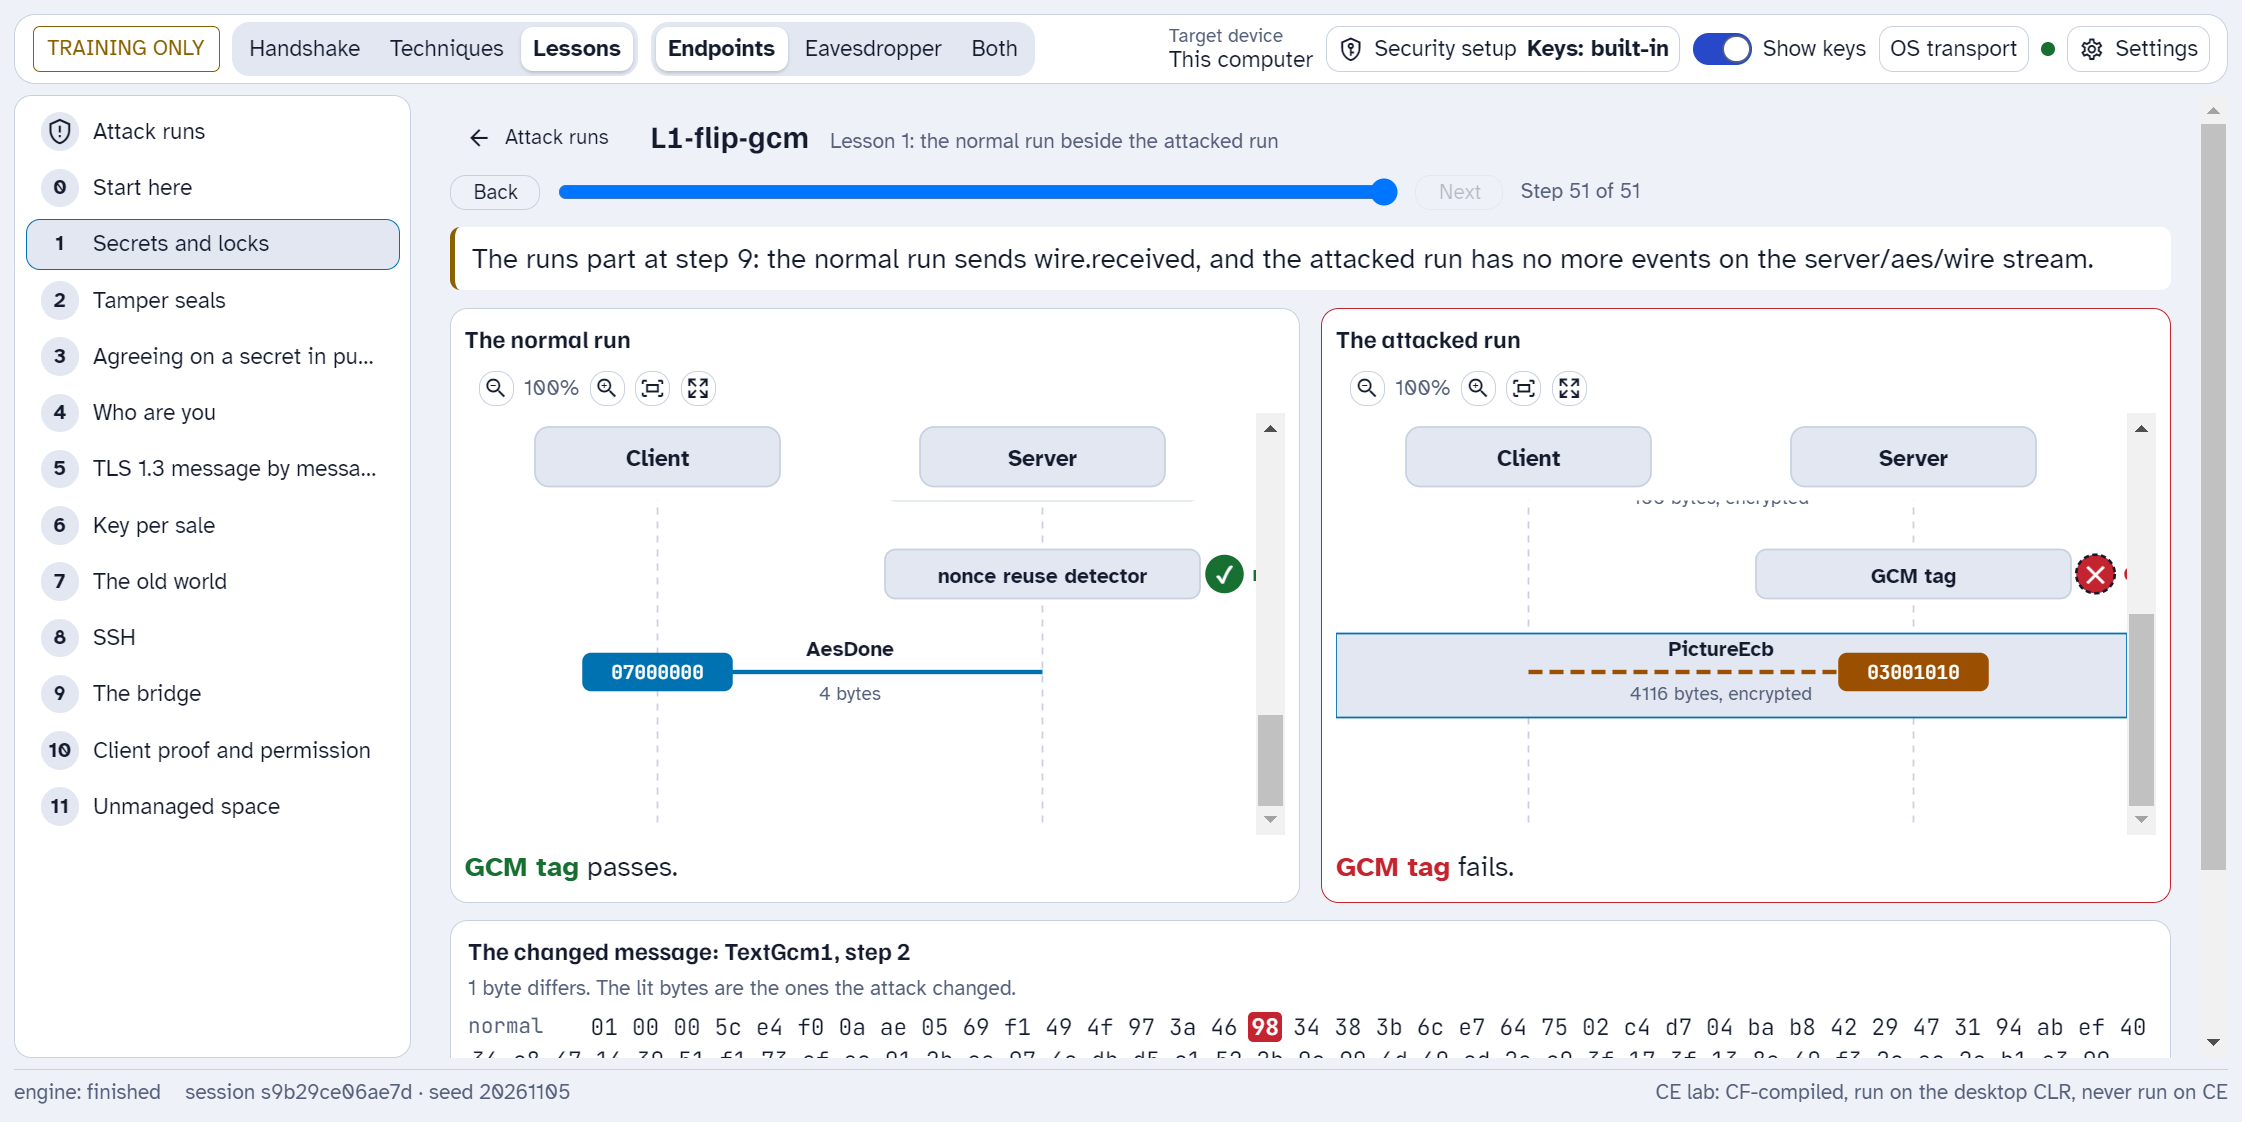
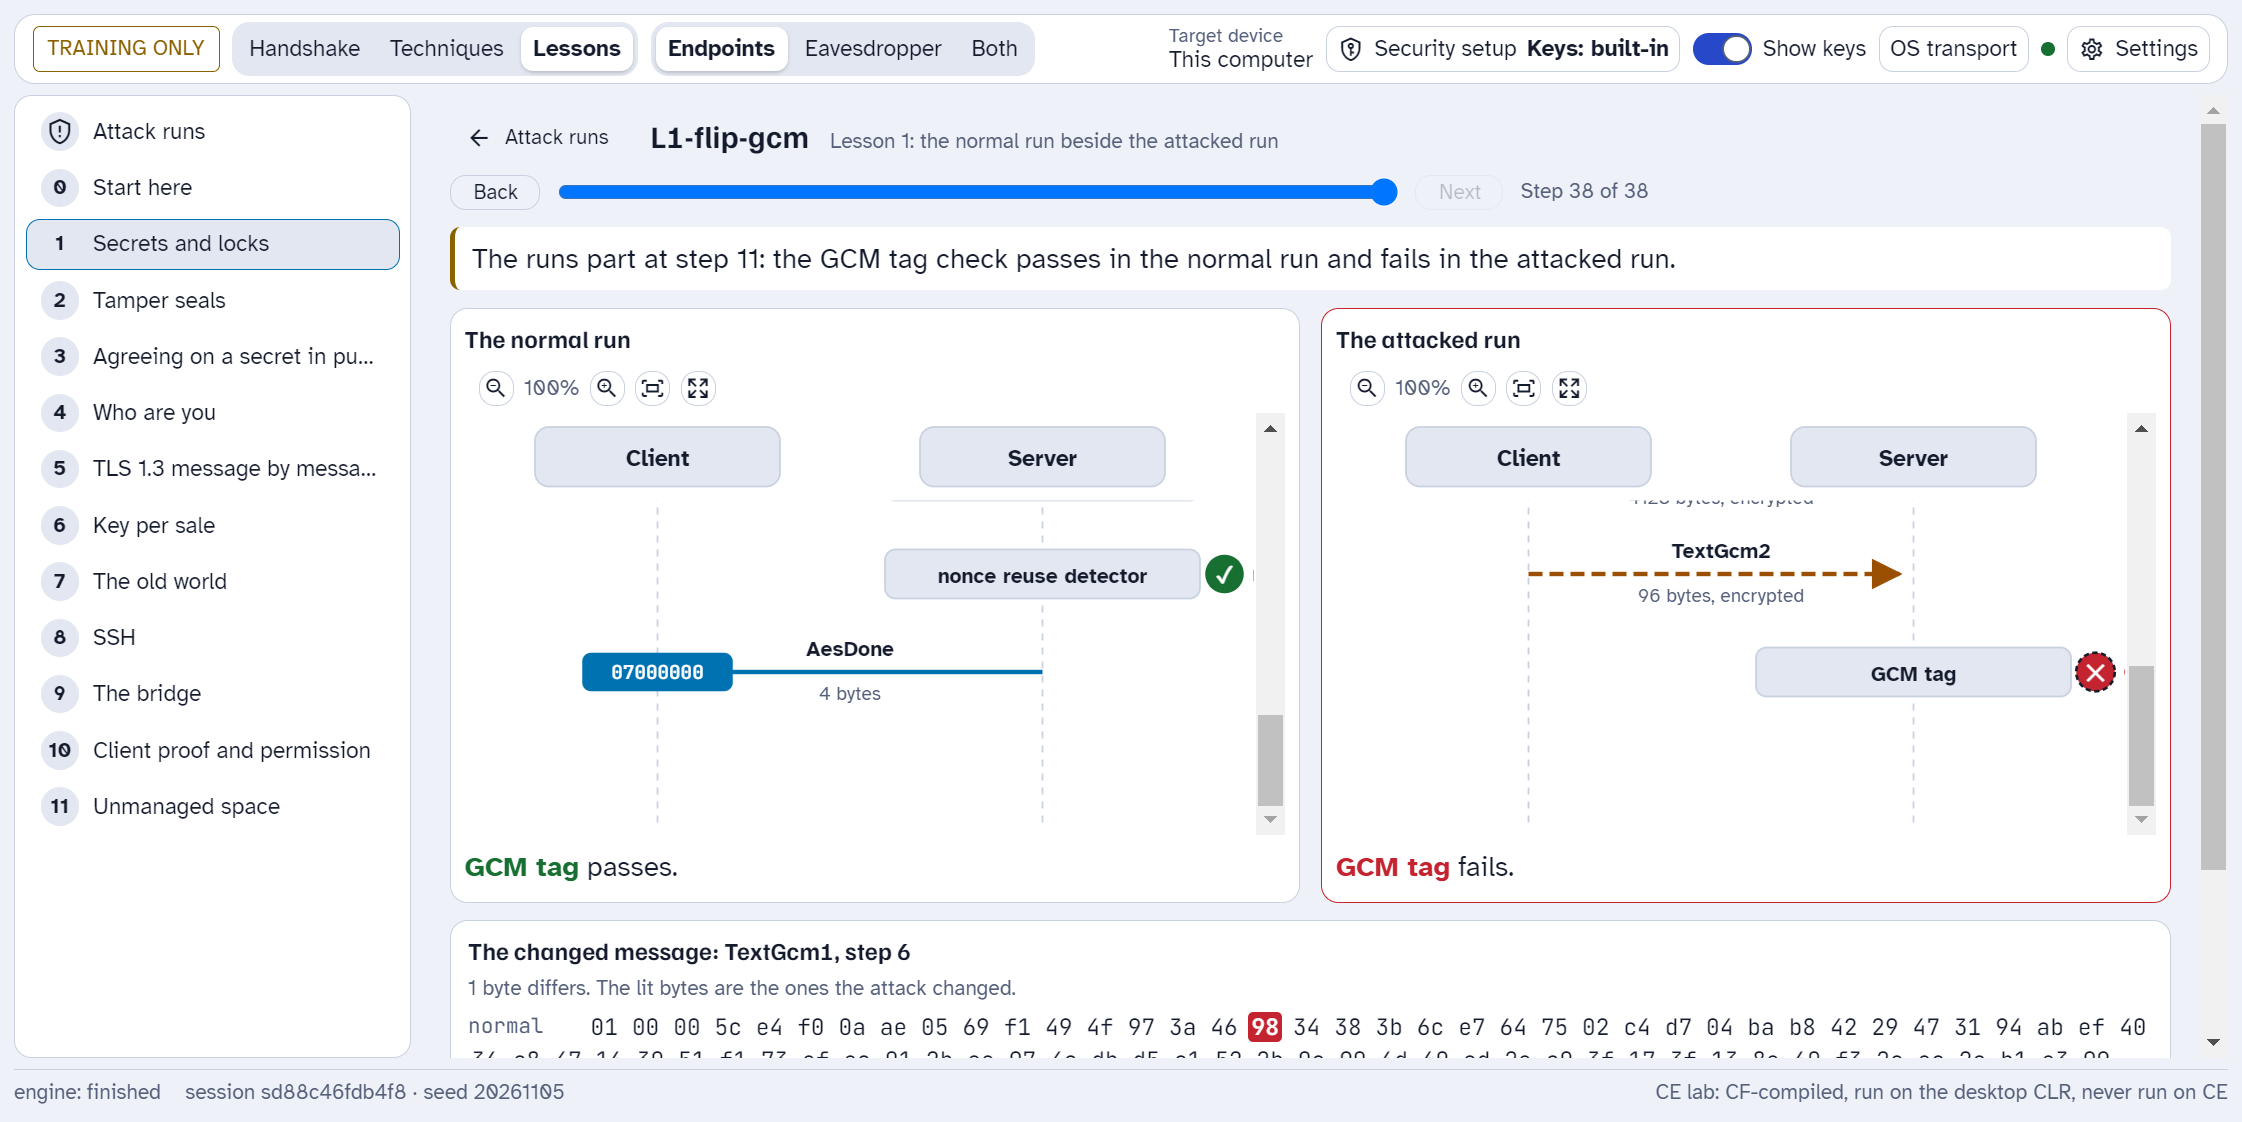
fix(app): the split line says in one sentence how a shared check went in each run; pictures retaken
"The GCM tag check passes in the normal run and fails in the attacked run."
Both L1-flip-gcm pictures now read Step 38 of 38, at 1280 and at 1984.

Claude-Session: https://claude.ai/code/session_013RTdUaidNWNSSsRoFumAcR

diff --git a/app/src/components/TwoRunView.vue b/app/src/components/TwoRunView.vue
@@ -1,7 +1,7 @@
 <script setup lang="ts">
 import { computed, ref, watch } from 'vue'
 import { lessons, showAttackIndex, ui } from '../store'
-import { changedBytes, checkResult, firstChange, isWire, pairing, splitAt, streamKey, wireSteps } from '../twoRun'
+import { changedBytes, checkResult, firstChange, isWire, pairing, splitAt, streamKey, wireSteps, type RunPair } from '../twoRun'
 import type { TraceEvent } from '../types'
 import SequenceDiagram from './SequenceDiagram.vue'
 
@@ -74,10 +74,17 @@ const checkWords = (r: 'pass' | 'fail' | 'none') => (r === 'pass' ? 'passes' : r
  */
 function doing(e: TraceEvent | null, key: string): string {
   if (!e) return `has no more ${key.split('/')[0]} events here`
-  if (e.check) return `runs the ${e.check.name} check, and it ${e.check.result === 'fail' ? 'fails' : 'passes'}`
+  if (e.check) return `runs the ${e.check.name} check, which ${result(e)}`
   return `sends ${e.message || e.type}`
 }
 const label = (e: TraceEvent | null) => (e ? e.message || e.type : '')
+const result = (e: TraceEvent) => (e.check!.result === 'fail' ? 'fails' : 'passes')
+/** The split in words. When both runs ran the same check, one sentence says how it went in each. */
+function splitWords(p: RunPair): string {
+  const n = p.normal, a = p.attacked
+  if (n?.check && a?.check && n.check.name === a.check.name) return `the ${n.check.name} check ${result(n)} in the normal run and ${result(a)} in the attacked run`
+  return `the normal run ${doing(n, p.key)}, and the attacked run ${doing(a, p.key)}`
+}
 </script>
 
 <template>
@@ -98,7 +105,7 @@ const label = (e: TraceEvent | null) => (e ? e.message || e.type : '')
       These runs cannot pair by stream: a run sends 2 events at one place in one stream. The panes show both runs, with no split line.
     </p>
     <p v-else-if="split" class="tr-split" data-testid="two-run-split" :data-at="split.index">
-      The runs part at step {{ split.index + 1 }}: the normal run {{ doing(split.pair.normal, split.pair.key) }}, and the attacked run {{ doing(split.pair.attacked, split.pair.key) }}.
+      The runs part at step {{ split.index + 1 }}: {{ splitWords(split.pair) }}.
     </p>
     <p v-else-if="!done" class="muted tr-wait" data-testid="two-run-running">Both runs are still running. Where they part shows when both have finished.</p>
 
